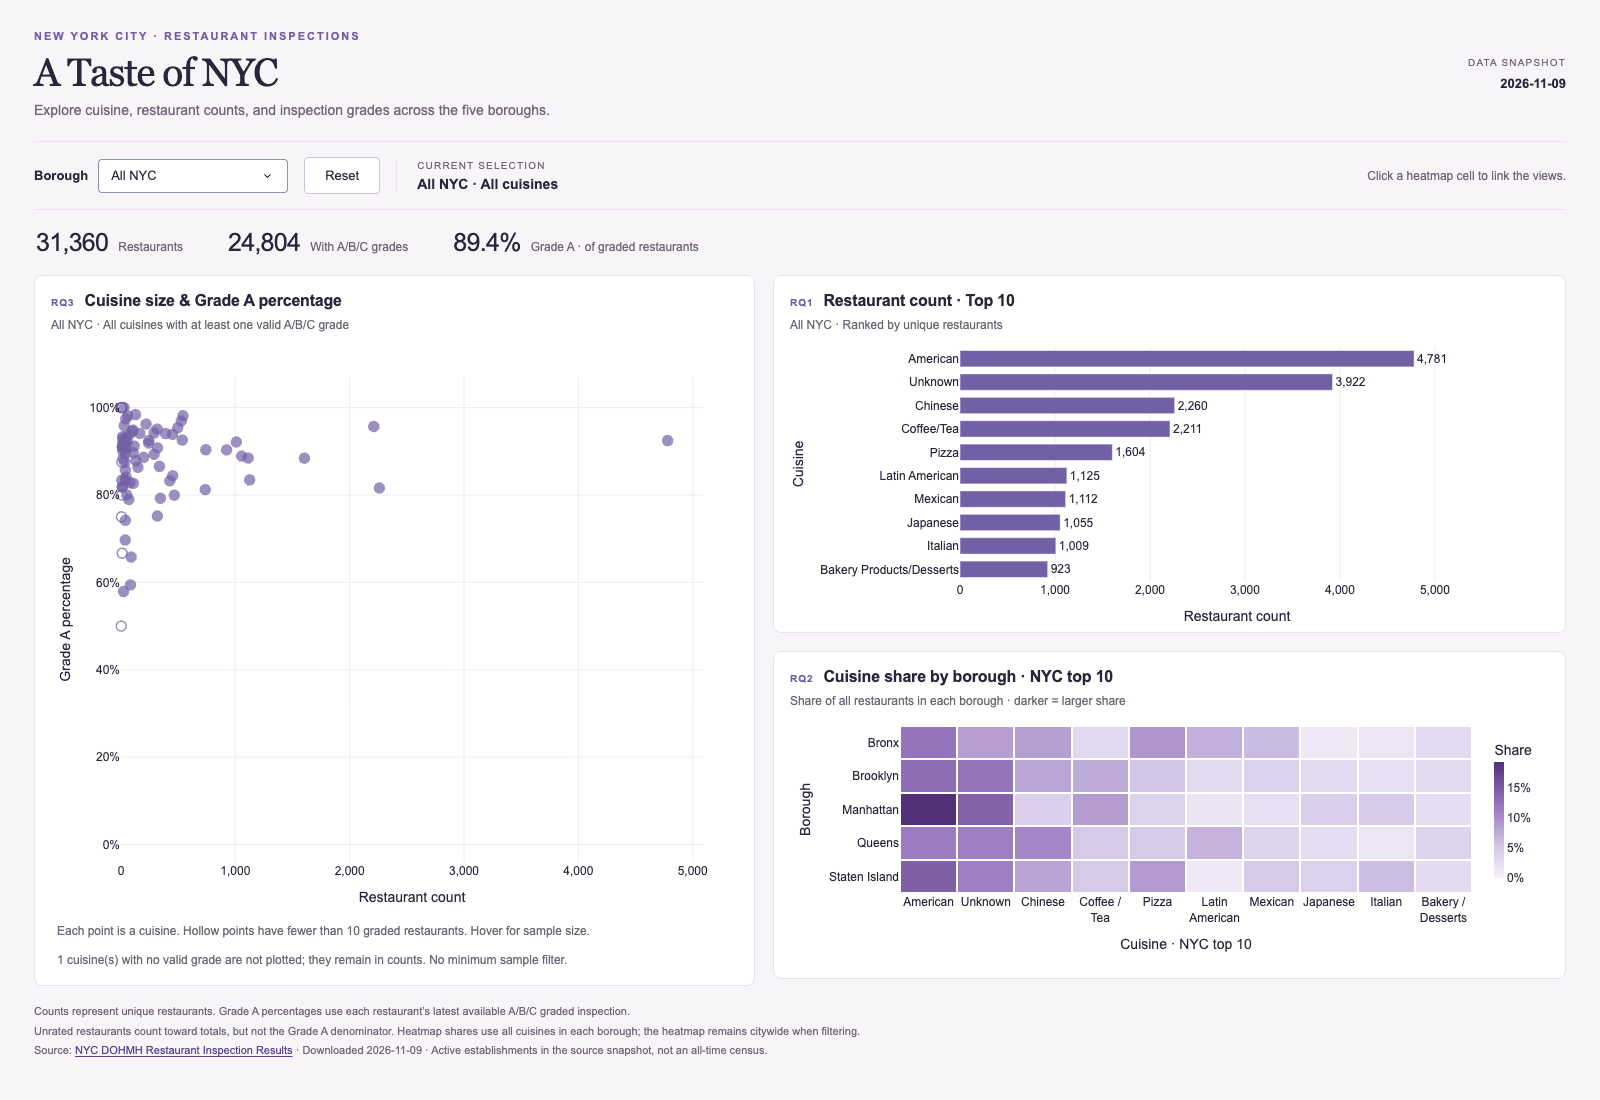
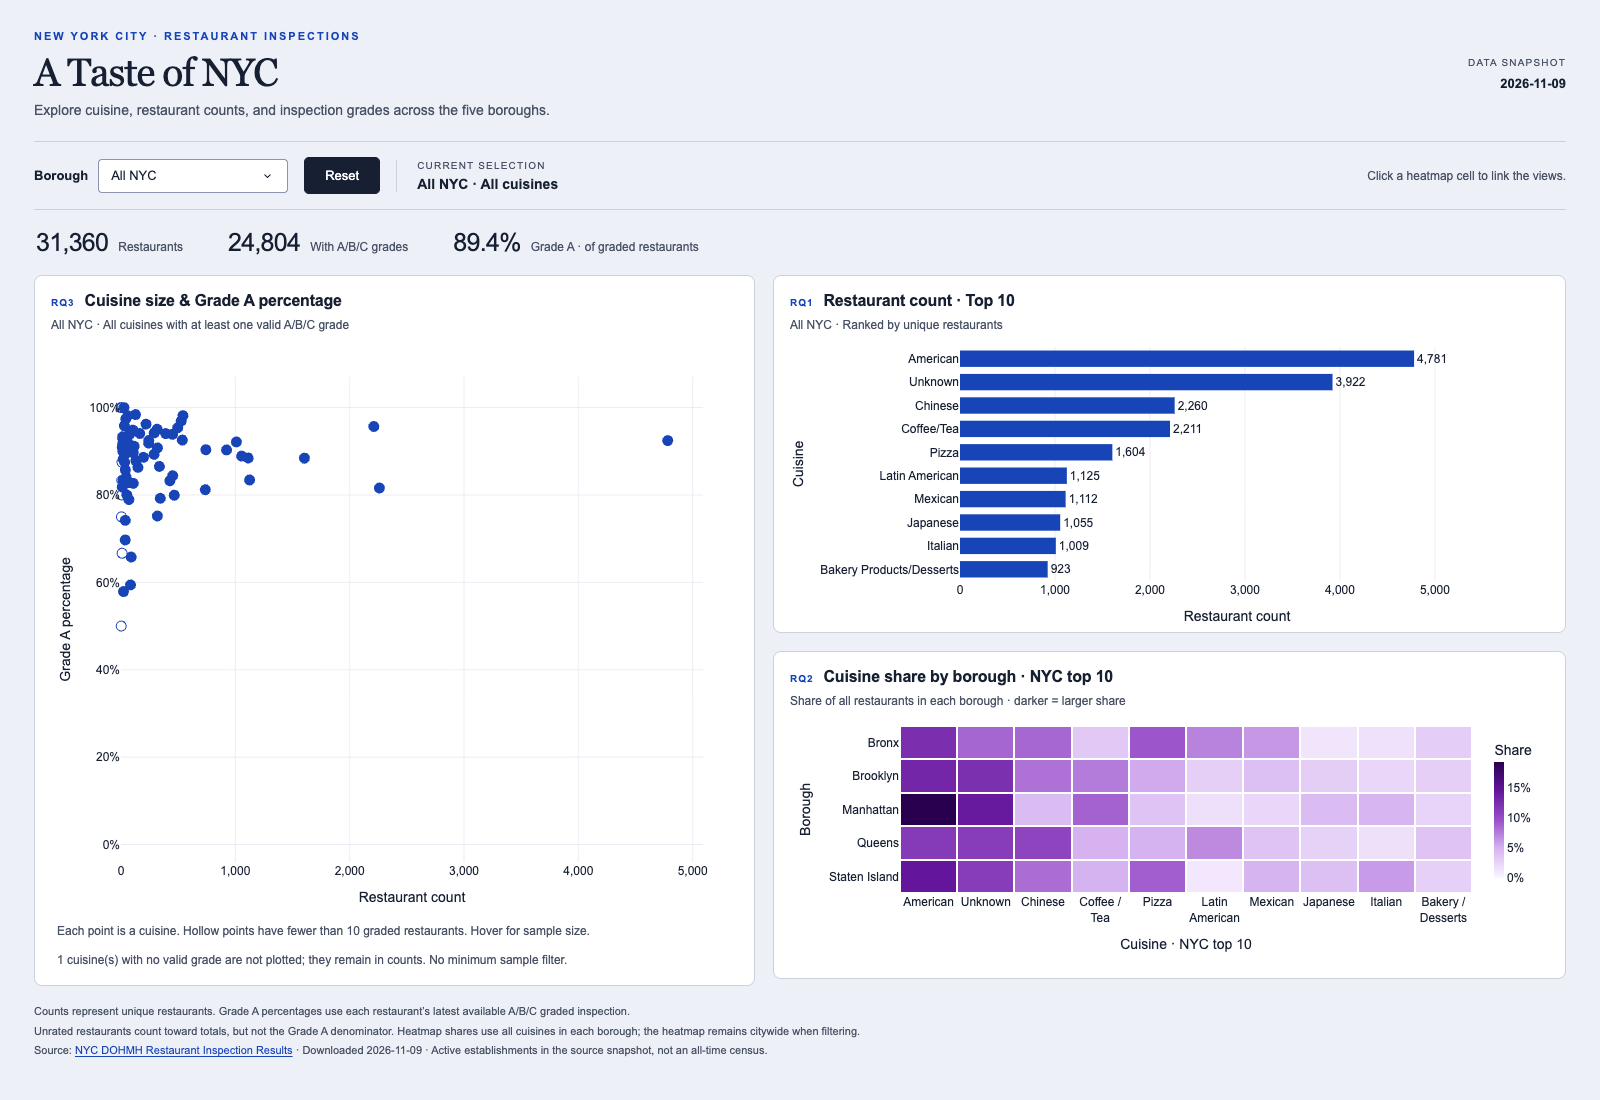
Increase chart contrast and emphasize linked cuisine selections

diff --git a/a-taste-of-nyc/assets/style.css b/a-taste-of-nyc/assets/style.css
@@ -1,6 +1,6 @@
-:root { color-scheme: light; --ink: #2b253b; --muted: #6c6676; --line: #e8e3ec; --purple: #7160a6; }
+:root { color-scheme: light; --ink: #172033; --muted: #485165; --line: #cbd2de; --purple: #1745b8; }
 * { box-sizing: border-box; }
-body { margin: 0; background: #f7f5f8; color: var(--ink); font-family: Arial, Helvetica, sans-serif; }
+body { margin: 0; background: #edf0f6; color: var(--ink); font-family: Arial, Helvetica, sans-serif; }
 .page { max-width: 1760px; margin: auto; padding: 30px 34px 20px; }
 header { display: flex; align-items: center; justify-content: space-between; gap: 24px; margin-bottom: 23px; }
 .eyebrow { color: var(--purple); font-size: 11px; letter-spacing: 2px; font-weight: 700; margin: 0 0 8px; }
@@ -11,9 +11,9 @@ h1 { font-family: Georgia, serif; font-size: 39px; font-weight: 500; letter-spac
 .controls { display: flex; align-items: center; gap: 16px; border-top: 1px solid var(--line); border-bottom: 1px solid var(--line); padding: 15px 0; }
 .filter { display: flex; align-items: center; gap: 10px; font-size: 13px; font-weight: 600; }
 #borough { width: 190px; font-weight: 400; }
-button { background: white; color: var(--ink); border: 1px solid #ccc3d7; border-radius: 5px; padding: 10px 20px; font-size: 13px; cursor: pointer; }
-button:hover { background: #eee8f5; }
-button:focus-visible, a:focus-visible { outline: 3px solid #b35c16; outline-offset: 3px; }
+button { background: #172033; color: white; border: 1px solid #172033; border-radius: 5px; padding: 10px 20px; font-size: 13px; cursor: pointer; }
+button:hover { background: #1745b8; }
+button:focus-visible, a:focus-visible { outline: 3px solid #984000; outline-offset: 3px; }
 .selection { border-left: 1px solid var(--line); padding-left: 20px; display: flex; flex-direction: column; gap: 5px; font-size: 14px; }
 .hint { margin: 0 0 0 auto; font-size: 12px; color: var(--muted); }
 .metrics { display: flex; gap: 45px; padding: 18px 2px; }
@@ -34,7 +34,7 @@ h2 { margin: 0; font-size: 16px; font-weight: 600; letter-spacing: -.2px; }
 .figure-note { font-size: 12px; color: var(--muted); line-height: 1.6; margin: 0 6px 10px; }
 footer { margin-top: 17px; color: var(--muted); font-size: 11px; line-height: 1.5; }
 footer p { margin: 3px 0; }
-a { color: #5a428b; text-underline-offset: 2px; }
+a { color: #1745b8; text-underline-offset: 2px; }
 @media (max-width: 1150px) { .page { padding: 22px; } .metrics { gap: 24px; } .metrics > div { flex-direction: column; gap: 4px; } .hint { display: none; } .chart-grid { grid-template-columns: 1fr 1.2fr; } }
 @media (max-width: 900px) { .chart-grid { grid-template-columns: 1fr; } .scatter-plot { flex: none; height: 420px; min-height: 0; } .controls { flex-wrap: wrap; } .metrics { flex-wrap: wrap; gap: 22px; } header { align-items: flex-start; } }
 @media (max-width: 550px) { .page { padding: 18px 10px; } h1 { font-size: 32px; } .snapshot { display: none; } .selection { padding-left: 0; border: 0; width: 100%; } .panel { padding: 13px 9px 4px; } h2 { font-size: 14px; } .heatmap-plot { min-width: 760px; } .scatter-plot { height: 420px !important; } .panel:has(.heatmap-plot) { overflow-x: auto; } .metrics strong { font-size: 23px; } }

diff --git a/a-taste-of-nyc/app.py b/a-taste-of-nyc/app.py
@@ -13,9 +13,10 @@ from dash import Dash, Input, Output, State, ctx, dcc, html
 from prepare_data import BOROUGHS, SOURCE_URL
 
 ROOT = Path(__file__).resolve().parent
-PURPLE = "#7160a6"
-SELECTED = "#b35c16"
-INK = "#2b253b"
+BASE_COLOR = "#1745b8"
+SELECTED = "#f28e00"
+SELECTED_TEXT = "#984000"
+INK = "#172033"
 CONFIG = {"displayModeBar": False, "responsive": True, "scrollZoom": False}
 
 
@@ -70,12 +71,12 @@ def scatter_figure(summary, selected):
             x=rows.restaurants.tolist(), y=rows.grade_a_pct.tolist(),
             mode="markers+text" if active else "markers",
             text=rows.cuisine.tolist() if active else None, textposition="bottom center",
-            textfont={"color": SELECTED, "size": 13}, cliponaxis=False,
+            textfont={"color": SELECTED_TEXT, "size": 13}, cliponaxis=False,
             customdata=rows[["cuisine", "restaurants", "rated", "grade_a"]].values.tolist(),
-            marker={"size": 15 if active else 10, "color": SELECTED if active else PURPLE,
-                    "opacity": 1 if active else 0.7,
+            marker={"size": 18 if active else 10, "color": SELECTED if active else BASE_COLOR,
+                    "opacity": 1,
                     "symbol": ["diamond" if active else ("circle-open" if n < 10 else "circle") for n in rows.rated],
-                    "line": {"width": 1.5, "color": SELECTED if active else PURPLE}},
+                    "line": {"width": 2 if active else 1, "color": INK if active else BASE_COLOR}},
             hovertemplate="<b>%{customdata[0]}</b><br>Restaurants: %{customdata[1]:,}<br>Rated (A/B/C): %{customdata[2]:,}<br>Grade A: %{y:.1%}<extra></extra>"))
     fig.update_xaxes(title="Restaurant count", rangemode="tozero", tickformat=",d")
     fig.update_yaxes(title="Grade A percentage", range=[-0.04, 1.07], tickformat=".0%", dtick=0.2)
@@ -93,7 +94,8 @@ def bar_figure(summary, selected):
     fig = base_figure()
     fig.add_trace(go.Bar(
         x=top.restaurants.tolist(), y=top.cuisine.tolist(), orientation="h",
-        marker_color=[SELECTED if c == selected else PURPLE for c in top.cuisine],
+        marker_color=[SELECTED if c == selected else BASE_COLOR for c in top.cuisine],
+        marker_line={"color": INK, "width": [2 if c == selected else 0 for c in top.cuisine]},
         text=[f"{n:,}" + (" ◀" if c == selected else "") for c, n in zip(top.cuisine, top.restaurants)],
         textposition="outside", cliponaxis=False,
         hovertemplate="<b>%{y}</b><br>Restaurants: %{x:,}<extra></extra>"))
@@ -116,7 +118,7 @@ def heatmap_figure(frame):
     fig.add_trace(go.Heatmap(
         x=cuisines, y=BOROUGHS, z=z, customdata=detail, zmin=0,
         zmax=max(0.01, float(shares.max().max())),
-        colorscale=[[0, "#f5f1fb"], [0.25, "#d8cbe9"], [0.6, "#9b7bc1"], [1, "#523179"]],
+        colorscale=[[0, "#faf5ff"], [0.25, "#d7b5f1"], [0.5, "#9950c9"], [0.75, "#63169b"], [1, "#29004f"]],
         xgap=2, ygap=2, hoverongaps=False,
         colorbar={"title": {"text": "Share"}, "tickformat": ".0%", "thickness": 10, "len": 0.94},
         hovertemplate="<b>%{customdata[0]} · %{customdata[1]}</b><br>Restaurants: %{customdata[2]:,}<br>Share of borough: %{z:.1%}<br>All borough restaurants: %{customdata[3]:,}<extra></extra>"))

diff --git a/a-taste-of-nyc/check_browser.py b/a-taste-of-nyc/check_browser.py
@@ -44,8 +44,8 @@ def run():
         expect(page.locator("#metrics")).to_contain_text("8,021")
         expect(page.locator("#bar-scope")).to_contain_text("Brooklyn")
         expect(page.locator("#scatter-scope")).to_contain_text("Brooklyn")
-        page.wait_for_function("""() => document.querySelector('#scatter .js-plotly-plot').data.some(t => t.marker.color === '#b35c16')""")
-        assert page.locator("#bar .js-plotly-plot").evaluate("g => g.data[0].marker.color.includes('#b35c16')")
+        page.wait_for_function("""() => document.querySelector('#scatter .js-plotly-plot').data.some(t => t.marker.color === '#f28e00')""")
+        assert page.locator("#bar .js-plotly-plot").evaluate("g => g.data[0].marker.color.includes('#f28e00')")
         selected = page.locator("#scatter .scatterlayer .trace").last.locator(".point").first
         bounds = selected.bounding_box()
         page.mouse.move(bounds["x"] + bounds["width"] / 2, bounds["y"] + bounds["height"] / 2)

diff --git a/a-taste-of-nyc/README.md b/a-taste-of-nyc/README.md
@@ -65,6 +65,8 @@ Grade is attached to the restaurant's latest valid borough/cuisine information. 
 
 ## Interactions and demonstration
 
+Color encodes selection in scatter/bar: saturated blue is the comparison set; bright orange with a dark outline identifies the selected cuisine. The same cuisine is highlighted consistently across both views. Cuisine identity is supplied by axis labels, hover and the selected point label rather than 90 different colors. Heatmap color has a separate quantitative role: a high-contrast, light-to-dark purple scale represents increasing borough share.
+
 1. Start at **All NYC · All cuisines**.
 2. Change **Borough**: scatter, bar and summary counts recompute. A manual borough change clears cuisine highlighting.
 3. Click **Brooklyn × Chinese** on the heatmap. The dropdown changes to Brooklyn, both other charts recompute, and Chinese is highlighted with a labeled diamond in scatter and a marked bar. The selection reads **Brooklyn · Chinese**. A selection highlights a cuisine; it does not filter out the other cuisines.
